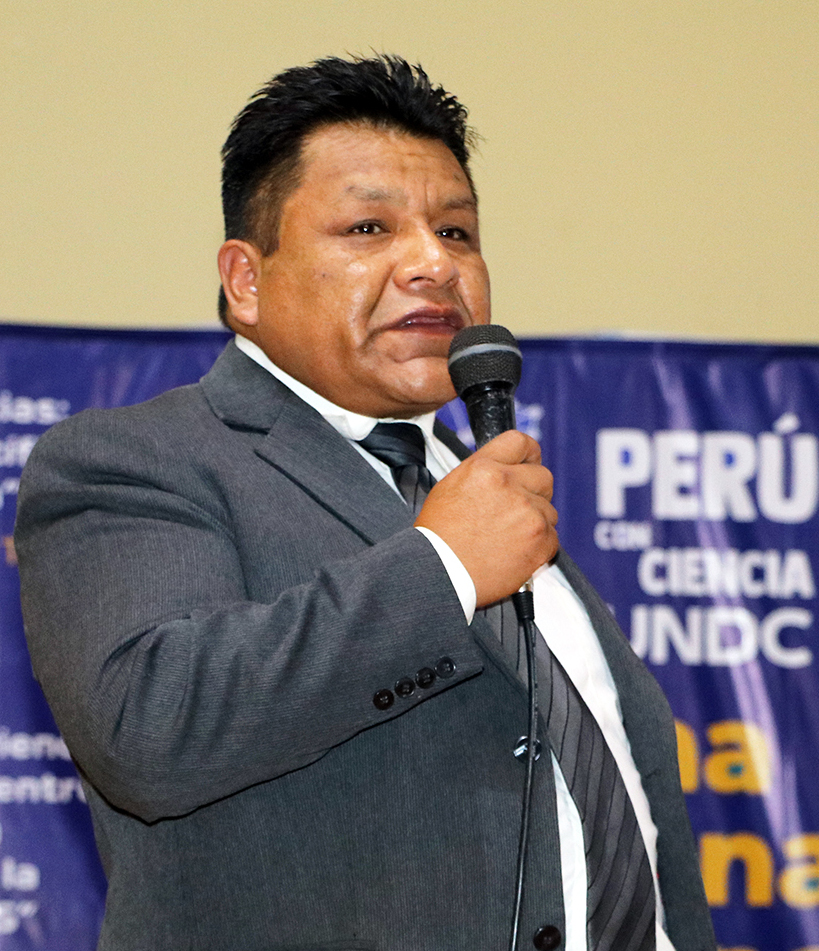
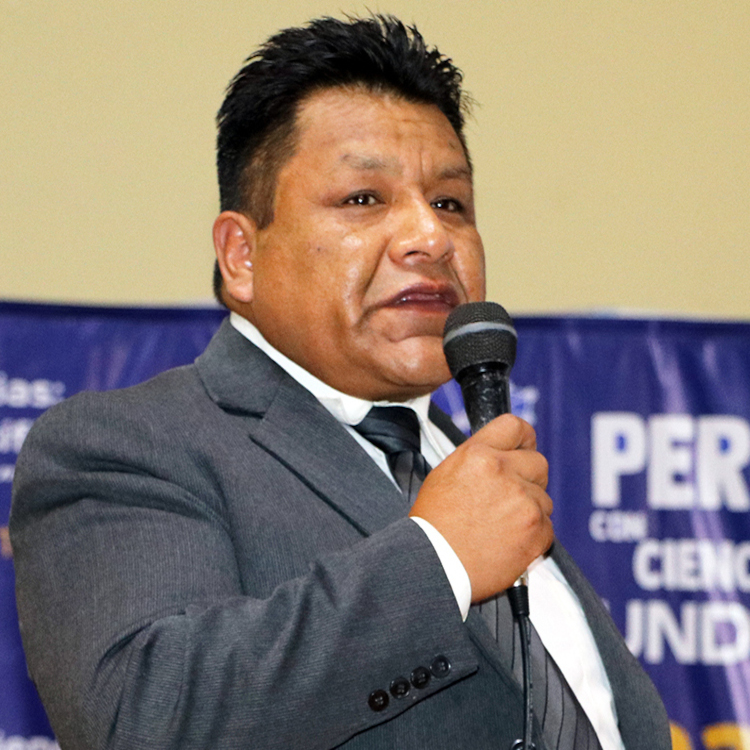
update escuela y jefe departamento

diff --git a/client/src/pages/Escuela.jsx b/client/src/pages/Escuela.jsx
@@ -1,6 +1,14 @@
-import Navbar from '../components/Navbar'
-import Footer from '../shared/Footer'
-import Asto from '../assets/l-asto.png'
+import Navbar from '../components/Navbar';
+import Footer from '../shared/Footer';
+import Asto from '../assets/l-asto.png';
+import Programcion from '../assets/programacion.jpg'
+import { Link } from 'react-router-dom';
+
+import { HiOutlineClipboardDocumentList } from "react-icons/hi2";
+import { MdCheckCircle } from "react-icons/md";
+import { HiDocumentArrowDown } from "react-icons/hi2";
+import { GrDocumentUser } from "react-icons/gr";
+import { FaUserGraduate } from "react-icons/fa6";
 
 // motion
 import { motion } from 'framer-motion';
@@ -47,7 +55,7 @@ const Escuela = () => {
                                 >
                                     <div class="mb-10">
                                         <p class="font-bold text-2xl mb-5">Director (e) de la Escuela Profesional de Ingeniería de Sistemas</p>
-                                        <h1 className="font-bold text-3xl mb-5">Mg. Leonidas Asto Huamán</h1>
+                                        <h1 className="font-bold text-3xl mb-5">M.Sc. Leonidas Asto Huamán</h1>
                                         <p class="text-sm text-justify lg:mr-10">De profesión, Ingeniero Informático y Sistemas con maestría en Informática, candidato a doctor en Ingeniería de Sistemas. Docente, con experiencia
                                             en universidades públicas y privadas. Asesor de tesis. Áreas de investigación: Machine Learning, Redes Neuronales, Interacción Humano Computador, IoT, Sistemas Inteligentes,
                                             Procesamiento Natural y BI. Con capacidad analizar, diseñar, construir, evaluar, diagnosticar, auditar y mantener sistemas informáticos aplicados en las diferentes áreas del
@@ -58,10 +66,192 @@ const Escuela = () => {
                         </div>
                     </div>
                 </div>
+
+                <div class="py-16 bg-white">
+                    <div class="container m-auto px-6 text-gray-600 md:px-12 xl:px-6">
+                        <h2 class="text-gray-900 font-bold text-3xl md:text-4xl mb-4">Perfil del Egresado en Ingeniería de Sistemas</h2>
+                        <div class="space-y-6 md:space-y-0 md:flex md:gap-6 lg:items-center lg:gap-12">
+                            <div class="md:5/12 lg:w-5/12">
+                                <img src={Programcion} alt="image" loading="lazy" width="" height="" />
+                            </div>
+                            <div class="md:7/12 lg:w-6/12">
+                                <p class="mt-6 text-gray-600 text-justify">
+                                    La Escuela Profesional de Ingeniería de Sistemas promueve las competencias específicas basadas en el desarrollo de la persona
+                                    con habilidades, conocimientos y capacidades para un adecuado desenvolvimiento profesional en el campo Ingeniería de sistemas.
+                                </p>
+                                <p class="mt-2 text-gray-600 text-justify">
+                                    El egresado en Ingeniería de Sistemas, bajo un enfoque de competencias, busca fortalecer el vínculo con el sector laboral y 
+                                    potenciar el capital humano en un contexto de constantes cambios. Desarrolla competencias específicas en software, redes de 
+                                    comunicación (LAN y WAN), TIC con estándares internacionales, y soluciones de ciencia de datos e inteligencia artificial, con 
+                                    la investigación como eje central para la innovación y transferencia de conocimiento.
+                                </p>
+                                <p class="mt-2 text-gray-600 text-justify">El egresado en Ingeniería de Sistemas tendrá el potencial para convertirse en un profesional
+                                    Exitoso y contribuir al crecimiento y desarrollo en el sector de la tecnología e informática, son sólidos conocimientos.</p>
+                            </div>
+                        </div>
+                        <div class="my-10 md:flex md:flex-col lg:gap-12">
+                            <h2 class="text-gray-900 font-bold text-3xl md:text-4xl mb-4 md:-mb-5">Objetivos Académicos</h2>
+                            <div>
+                                <ul class="list-disc pl-6 space-y-4 text-gray-600 text-justify">
+                                    <li>Promover y desarrollar labores de investigación científica y tecnológica de carácter multidisciplinario y con la participación de docentes y estudiantes, para mejorar habilidades y generar conocimientos técnicos y científicos, a fin de contribuir con responsabilidad social con el desarrollo del país.</li>
+                                    <li>Promover la participación de los estudiantes de ingeniería de sistemas en actividades extracurriculares, tales como, círculos de estudios y proyectos de investigación interdisciplinaria, que integren los procesos empresariales con las tecnologías de información.</li>
+                                    <li>Integrar a los estudiantes con graduados y empleadores exitosos para que, a través de la Información de sus experiencias, conozcan sobre los éxitos en la profesión de ingeniería de sistemas, con el fin de motivarlos.</li>
+                                    <li>Propiciar la capacitación permanente del personal docente con la finalidad de estar a la vanguardia en los conocimientos de los temas relacionados a la ingeniería de sistemas.</li>
+                                    <li>Atender las necesidades u los cambios que adoptan las organizaciones, en respuesta a las fluctuaciones del mercado, proporcionándoles profesionales calificados que ayuden a alcanzar sus objetivos estratégicos mediante el uso de las tecnologías de la información.</li>
+                                </ul>
+                            </div>
+                        </div>
+                        <div class="my-10 md:flex md:flex-col lg:gap-12">
+                            <h2 class="text-gray-900 font-bold text-3xl md:text-4xl mb-4 md:-mb-5">Conceptual</h2>
+                            <div>
+                                <ul class="list-disc pl-6 space-y-4 text-gray-600 text-justify">
+                                    <li>Conoce e integra conocimientos de las ciencias básicas, ciencias de la computación y ciencias de la empresa para la solución de problemas.</li>
+                                    <li>Distingue y explica las diferentes fases de la solución de un problema.</li>
+                                    <li>Conoce las metodologías del enfoque sistémico y científico, para el desarrollo de propuestas de solución a problemas del mundo real.</li>
+                                </ul>
+                            </div>
+                        </div>
+                        <div class="my-10 md:flex md:flex-col lg:gap-12">
+                            <h2 class="text-gray-900 font-bold text-3xl md:text-4xl mb-4 md:-mb-5">Procedimental</h2>
+                            <div>
+                                <ul class="list-disc pl-6 space-y-4 text-gray-600 text-justify">
+                                    <li>Aplica efectivamente la teoría General de Sistemas y el Pensamiento Sistémico en la compresión y solución de problemas organizacionales.</li>
+                                    <li>Modela, Simula, Implementa y Optimiza Sistemas Complejos, bajo el soporte de las tecnologías de información y Comunicación.</li>
+                                    <li>Planifica, Analiza, Diseña y Desarrolla sistemas de información y comunicación para diversos tipos de organizaciones.</li>
+                                    <li>Modela unidades de negocio en las organizaciones.</li>
+                                    <li>Aplica ingeniería de información integrados.</li>
+                                    <li>Integra la información organizacional.</li>
+                                    <li>Diseña e Implementa redes globales de comunicación de datos.</li>
+                                    <li>Gerencia organizaciones empresariales, desarrollando estrategias para el logro de ventajas competitivas sostenibles.</li>
+                                </ul>
+                            </div>
+                        </div>
+                        <div class="my-10 md:flex md:flex-col lg:gap-12">
+                            <h2 class="text-gray-900 font-bold text-3xl md:text-4xl mb-4 md:-mb-5">Actitudinales</h2>
+                            <div>
+                                <ul class="list-disc pl-6 space-y-4 text-gray-600 text-justify">
+                                    <li>Ser proactivo hacia la investigación y actualización en tecnología de información y comunicaciones.</li>
+                                    <li>Ejerce su labor con creatividad, responsabilidad y ética.</li>
+                                    <li>Orienta su profesión al desarrollo regional y nacional, en base a la compresión de la realidad en sus diversas manifestaciones.</li>
+                                    <li>No tiene temor de promover en su campo una iniciativa con efectos de carácter mundial.</li>
+                                    <li>Promueve la generación de empresas.</li>
+                                    <li>Impulsa la aplicación nuevas tecnologías de información y comunicación en la empresa.</li>
+                                    <li>Promueve los cambios económicos, sociales, científicos y tecnológicos en el marco del desarrollo humano.</li>
+                                </ul>
+                            </div>
+                        </div>
+                        <div className="my-10 md:flex md:flex-col lg:gap-12 text-justify">
+                            <h2 className="text-gray-900 font-bold text-3xl md:text-4xl mb-4 md:-mb-5">Grados y Títulos</h2>
+                            <div>
+                                <ul className="pl-4 space-y-4 text-gray-600">
+                                    <li className="flex items-start">
+                                        <FaUserGraduate className="mr-2 text-2xl inline" />
+                                        <span>Grado Académico: Bachiller en Ingeniería de Sistemas.</span>
+                                    </li>
+                                    <li className="flex items-start">
+                                        <FaUserGraduate className="mr-2 text-2xl inline" />
+                                        <span>Título Profesional: Ingeniero de Sistemas.</span>
+                                    </li>
+                                </ul>
+                            </div>
+                        </div>
+                        {/*Cards */}
+                        <h4 class="text-2xl mt-6 text-gray-900 font-bold inline-flex items-start">
+                            <MdCheckCircle class="mr-2 inline" />
+                            Planes de estudios vigentes
+                        </h4>
+                        <div class="md:min-w-[700px] xl:min-w-[800px] mt-5 grid grid-cols-1 gap-5 md:grid-cols-2 lg:grid-cols-3 2xl:grid-cols-3 justify-center mx-auto">
+                            <div class="relative flex flex-grow !flex-row flex-col items-center rounded-[10px] border-[2px] bg-white shadow-md dark:border-[#00000033]">
+                                <div class="ml-[18px] flex h-[90px] w-auto flex-row items-center">
+                                    <div class="rounded-full bg-lightPrimary p-3 dark:bg-gray-300">
+                                        <span class="flex items-center text-brand-500 text-black text-3xl">
+                                            <HiOutlineClipboardDocumentList />
+                                        </span>
+                                    </div>
+                                </div>
+                                <div class="h-50 ml-4 flex w-auto flex-col justify-center">
+                                    <Link to={"https://drive.google.com/file/d/1ve1jDeKrh475vw2V3dyF3pU9BkzsWcSx/view?usp=sharing"} target='_blank'><h4 class="text-xl font-bold text-navy-700 text-black">Plan de estudios 2024</h4></Link>
+                                </div>
+                            </div>
+                            <div class="relative flex flex-grow !flex-row flex-col items-center rounded-[10px] border-[2px] bg-white shadow-md dark:border-[#00000033]">
+                                <div class="ml-[18px] flex h-[90px] w-auto flex-row items-center">
+                                    <div class="rounded-full bg-lightPrimary p-3 dark:bg-gray-300">
+                                        <span class="flex items-center text-brand-500 text-black text-3xl">
+                                            <HiOutlineClipboardDocumentList />
+                                        </span>
+                                    </div>
+                                </div>
+                                <div class="h-50 ml-4 flex w-auto flex-col justify-center">
+                                    <Link to={"https://drive.google.com/file/d/16v8FIV--vDkHz8Mg6jP-YQvrMduPtHKF/view?usp=sharing"} target='_blank'><h4 class="text-xl font-bold text-navy-700 text-black">Plan de estudios 2016</h4></Link>
+                                </div>
+                            </div>
+                        </div>
+                        <h4 class="text-2xl mt-20 text-gray-900 font-bold inline-flex items-start">
+                            <MdCheckCircle class="mr-2 inline" />
+                            Documentos de Practicas-Preprofesionales
+                        </h4>
+                        <div class="md:min-w-[700px] xl:min-w-[800px] mt-5 grid grid-cols-1 gap-5 md:grid-cols-2 lg:grid-cols-3 2xl:grid-cols-3 justify-center mx-auto">
+                            <div class="relative flex flex-grow !flex-row flex-col items-center rounded-[10px] border-[2px] bg-white shadow-md dark:border-[#00000033]">
+                                <div class="ml-[18px] flex h-[90px] w-auto flex-row items-center">
+                                    <div class="rounded-full bg-lightPrimary p-3 dark:bg-gray-300">
+                                        <span class="flex items-center text-brand-500 text-black text-3xl">
+                                            <GrDocumentUser />
+                                        </span>
+                                    </div>
+                                </div>
+                                <div class="h-50 ml-4 flex w-auto flex-col justify-center">
+                                    <h4 class="text-xl font-bold text-navy-700 text-black">Reglamento de PPP</h4>
+                                </div>
+                            </div>
+                            <div class="relative flex flex-grow !flex-row flex-col items-center rounded-[10px] border-[2px] bg-white shadow-md dark:border-[#00000033]">
+                                <div class="ml-[18px] flex h-[90px] w-auto flex-row items-center">
+                                    <div class="rounded-full bg-lightPrimary p-3 dark:bg-gray-300">
+                                        <span class="flex items-center text-brand-500 text-black text-3xl">
+                                            <HiDocumentArrowDown />
+                                        </span>
+                                    </div>
+                                </div>
+                                <div class="h-50 ml-4 flex w-auto flex-col justify-center">
+                                    <h4 class="text-xl font-bold text-navy-700 text-black">Formatos de PPP</h4>
+                                </div>
+                            </div>
+                        </div>
+                        <h4 class="text-2xl mt-20 text-gray-900 font-bold inline-flex items-start">
+                            <MdCheckCircle class="mr-2 inline" />
+                            Documentos de RSU
+                        </h4>
+                        <div class="md:min-w-[700px] xl:min-w-[800px] mt-5 grid grid-cols-1 gap-5 md:grid-cols-2 lg:grid-cols-3 2xl:grid-cols-3 justify-center mx-auto">
+                            <div class="relative flex flex-grow !flex-row flex-col items-center rounded-[10px] border-[2px] bg-white shadow-md dark:border-[#00000033]">
+                                <div class="ml-[18px] flex h-[90px] w-auto flex-row items-center">
+                                    <div class="rounded-full bg-lightPrimary p-3 dark:bg-gray-300">
+                                        <span class="flex items-center text-brand-500 text-black text-3xl">
+                                            <GrDocumentUser />
+                                        </span>
+                                    </div>
+                                </div>
+                                <div class="h-50 ml-4 flex w-auto flex-col justify-center">
+                                    <h4 class="text-xl font-bold text-navy-700 text-black">Reglamento de RSU</h4>
+                                </div>
+                            </div>
+                            <div class="relative flex flex-grow !flex-row flex-col items-center rounded-[10px] border-[2px] bg-white shadow-md dark:border-[#00000033]">
+                                <div class="ml-[18px] flex h-[90px] w-auto flex-row items-center">
+                                    <div class="rounded-full bg-lightPrimary p-3 dark:bg-gray-300">
+                                        <span class="flex items-center text-brand-500 text-black text-3xl">
+                                            <HiDocumentArrowDown />
+                                        </span>
+                                    </div>
+                                </div>
+                                <div class="h-50 ml-4 flex w-auto flex-col justify-center">
+                                    <h4 class="text-xl font-bold text-navy-700 text-black">Formatos de RSU</h4>
+                                </div>
+                            </div>
+                        </div>
+                    </div>
+                </div>
             </section>
             <Footer />
         </>
     )
 }
 
-export default Escuela
+export default Escuela;

diff --git a/client/src/pages/Departamento.jsx b/client/src/pages/Departamento.jsx
@@ -39,7 +39,7 @@ const Departamento = () => {
                                         whileInView={"show"}
                                         viewport={{ once: true, amount: 0.7 }}
                                     >
-                                        <img src={Roque} class="w-full relative z-10" alt="" />
+                                        <img src={Oseda} class="w-full relative z-10" alt="" />
                                     </motion.div>
                                 </div>
                             </div>
@@ -52,13 +52,19 @@ const Departamento = () => {
                                 >
                                     <div class="mb-10">
                                         <p class="font-bold text-2xl mb-5">Director (e) del Departamento Académico de Ingenieria de Sistemas</p>
-                                        <h1 className="font-bold text-3xl mb-5">Dr. Edwin Roque Tito</h1>
-                                        <p class="text-sm text-justify lg:mr-10">Docente Universitario de Pre y Posgrado, con experiencia en: Proyectos de desarrollo de software, implementación de sistemas de información en
-                                            todas sus etapas, administración de base de datos y sistemas operativos; orientados al logro de objetivos y cumplir metas organizacionales. Formación profesional en
-                                            constante actualización, aprovecho cada momento y espacio del que hacer universitario; Ingeniero de Sistemas de profesión, Magister Scientiae en Informática por
-                                            la Universidad Nacional del Altiplano, Doctor en Ingeniería de Sistemas por la Universidad Nacional Federico Villarreal, Maestría en Integración e Innovación de
-                                            TI en la PUCP y segunda Especialidad en Formulación y Evaluación de Proyectos de Inversión en la UNA; mi objetivo personal es formar parte de un gran equipo de trabajo,
-                                            donde pueda aportar mi experiencia en el área de Ingeniería de sistemas y telecomunicaciones, y continuar con mi desarrollo profesional.</p>
+                                        <h1 className="font-bold text-3xl mb-5">Ph.D. Dulio Oseda Gago</h1>
+                                        <p class="text-sm text-justify lg:mr-10">Docente universitario en la categoría de Principal, con más de 23 años de experiencia 
+                                            en investigación, gestión educacional y acreditación universitaria. Doctor en Ciencias de la Educación, Doctor en Psicología 
+                                            Educacional y Tutorial, Doctor en Educación, Doctor en Administración de la Educación, Doctor en Sistemas de Ingeniería, DBA in 
+                                            Business Administration, Ph.D. in Business Administration and Ph.D. in Scientific Research. Posdoctor en Ciencias de la Educación, 
+                                            Posdoctor en Sistemas Diacrónicos y Sincrónicos de la Investigación Científica, y Posdoctor in Big Data. Experiencia en gestión de 
+                                            proyectos, planificación estratégica, consecución de fondos concursables de cooperación técnica, organización de cursos y eventos 
+                                            científicos y publicación en revistas especializadas nacionales y extranjeras. Experiencia como docente universitario a nivel de 
+                                            pre y posgrado. Ponente en diversos eventos nacionales e internacionales. Ganador en la categoría de "Maestro" de las Palmas 
+                                            Magisteriales del MINEDU, Conferencista internacional de la OIICE. Fluente en italiano, portugués e inglés. Ha sido Vicerrector 
+                                            Académico en la Universidad Nacional Intercultural de la Amazonia de Ucayali y Vicerrector de Investigación en la Universidad Nacional 
+                                            Autónoma de Chota - Cajamarca. Actual docente investigador en la Universidad Nacional Mayor de San Marcos y Universidad Nacional 
+                                            de Cañete.</p>
                                     </div>
                                 </motion.div>
                             </div>
@@ -84,7 +90,7 @@ const Departamento = () => {
                             </div>
                             <div class="text-center py-8 sm:py-6">
                                 <p class="text-xl text-gray-700 font-bold mb-2">Dr. Wagner Vicente Ramos</p>
-                                <p class="text-base text-gray-400 font-normal">Director General (e) de la Escuela de Posgrado de la UNDC</p>
+                                <p class="text-base text-gray-400 font-normal">Responsable de Tutoria Académica de la Facultad de Ingeniería</p>
                             </div>
                         </div>
                     </motion.div>
@@ -94,11 +100,11 @@ const Departamento = () => {
                     >
                         <div class="w-full bg-white rounded-lg shadow-lg overflow-hidden flex flex-col justify-center items-center">
                             <div>
-                                <img class="object-center object-cover h-auto w-full" src={Oseda} alt="photo" />
+                                <img class="object-center object-cover h-auto w-full" src={Roque} alt="photo" />
                             </div>
                             <div class="text-center py-8 sm:py-6">
-                                <p class="text-xl text-gray-700 font-bold mb-2">Ph.D. Dulio Oseda Gago</p>
-                                <p class="text-base text-gray-400 font-normal">Director (e) del Centro de Investigación Científica de la UNDC</p>
+                                <p class="text-xl text-gray-700 font-bold mb-2">Dr. Edwin Roque Tito</p>
+                                <p class="text-base text-gray-400 font-normal">Responsable de Practicas Preprofesionales de la Facultad de Ingeniería</p>
                             </div>
                         </div>
                     </motion.div>

diff --git a/client/src/components/Navbar.jsx b/client/src/components/Navbar.jsx
@@ -65,8 +65,8 @@ const Navbar = () => {
                   {isEscuelaOpen && (
                     <ul className="absolute left-0 pl-4 mt-2 w-40 bg-white shadow-lg rounded-md p-2 border border-zinc-200 flex flex-col gap-2">
                       <li className="border-b border-gray-200 py-1"><Link to={"/escuela"}>Ingeniería de Sistemas</Link></li>
-                      <li className="border-b border-gray-200 py-1"><Link to={"/escuela/tutoria"}>Tutoria</Link></li>
-                      <li className="border-b border-gray-200 py-1"><Link to={"/escuela/rsu"}>RSU</Link></li>
+                      <li className="border-b border-gray-200 py-1"><Link to={"https://tutoria.undc.edu.pe/Login/index.php"} target='_blank'>Tutoria</Link></li>
+                      <li className="border-b border-gray-200 py-1"><Link to={"https://portal.undc.edu.pe/proyeccionsocial/"} target='_blank'>RSU</Link></li>
                     </ul>
                   )}
                 </span>
@@ -119,8 +119,8 @@ const Navbar = () => {
           {isEscuelaOpen && (
             <ul className="absolute left-0 pl-4 mt-2 w-40 bg-secondary shadow-lg rounded-md p-2 border border-zinc-200 flex flex-col gap-2 z-30">
               <li className="border-b border-gray-200 py-1"><Link to={"/escuela"}>Ingeniería de Sistemas</Link></li>
-              <li className="border-b border-gray-200 py-1"><Link to={"/escuela/tutoria"}>Tutoria</Link></li>
-              <li className="border-b border-gray-200 py-1"><Link to={"/escuela/rsu"}>RSU</Link></li>
+              <li className="border-b border-gray-200 py-1"><Link to={"https://tutoria.undc.edu.pe/Login/index.php"} target='_blank'>Tutoria</Link></li>
+              <li className="border-b border-gray-200 py-1"><Link to={"https://portal.undc.edu.pe/proyeccionsocial/"} target='_blank'>RSU</Link></li>
             </ul>
           )}
         </span>

diff --git a/client/src/components/Actualidad.jsx b/client/src/components/Actualidad.jsx
@@ -30,19 +30,18 @@ const Actualidad = () => {
     return (
         <div className="md:px-14 p-4 max-w-screen-2xl mx-auto space-y-10" id='about'>
             <h2 className="md:text-5xl text-3xl font-extrabold">ACTUALIDAD</h2>
-            <div className='flex items-center'>
+            {/*<div className='flex items-center'>
                 <button className="flex px-3 py-2 bg-primary mr-1 text-white font-semibold rounded">
                     <span>Noticias</span>
                 </button>
-
-                {/*<button className="flex px-3 py-2 bg-secondary mr-1 text-white font-semibold rounded">
+                <button className="flex px-3 py-2 bg-secondary mr-1 text-white font-semibold rounded">
                     <span>Eventos</span>
                 </button>
 
                 <button className="flex px-3 py-2 bg-secondary mr-1 text-white font-semibold rounded">
                     <span>Proyectos</span>
-                </button>*/}
-            </div>
+                </button>
+            </div>*/}
             <div className='flex flex-col md:flex-row justify-between items-center gap-8'>
                 <div className="container mx-auto p-4">
                     <div className="grid grid-cols-1 sm:grid-cols-2 md:grid-cols-2 lg:grid-cols-4 xl:grid-cols-4 gap-4">

diff --git a/client/src/components/Aacademica.jsx b/client/src/components/Aacademica.jsx
@@ -65,7 +65,7 @@ const Aacademica = () => {
                             <div className='bg-[rgba(255, 255, 255, 0.04)] rounded-[35px] h-96 shadow-3xl p-8 items-center flex justify-center hover:-translate-y-4 transition-all duration-300 cursor-pointer'>
                                 <div>
                                     <img src={academica4} alt="" className='object-center object-cover h-auto w-full' />
-                                    <h5 className='text-2xl font-semibold px-5 text-center mt-5'>Reencunetro de Egresados</h5>
+                                    <h5 className='text-2xl font-semibold px-5 text-center mt-5'>Reencuentro de Egresados</h5>
                                 </div>
                             </div>
                         </motion.div>

diff --git a/client/src/components/Home.jsx b/client/src/components/Home.jsx
@@ -1,9 +1,9 @@
 import { useState, useEffect } from 'react';
-import banner1 from '../assets/banner1.png';
-import banner2 from '../assets/banner2.png';
-import banner3 from '../assets/banner3.png';
-import banner4 from '../assets/banner4.png';
-import banner5 from '../assets/banner5.png';
+import banner1 from '../assets/banner1.jpg';
+import banner2 from '../assets/banner2.jpg';
+import banner3 from '../assets/banner3.jpg';
+import banner4 from '../assets/banner4.jpg';
+import banner5 from '../assets/banner5.jpg';
 
 import { BsChevronCompactLeft, BsChevronCompactRight } from 'react-icons/bs';
 import { RxDotFilled } from 'react-icons/rx';

diff --git a/client/src/pages/facultad/Facultad.jsx b/client/src/pages/facultad/Facultad.jsx
@@ -2,7 +2,7 @@ import Navbar from '../../components/Navbar';
 import Footer from '../../shared/Footer';
 import Almidon from '../../assets/c-almidon.png';
 
-import banner1 from '../../assets/banner1.png';
+import banner1 from '../../assets/banner1.jpg';
 import Banner from '../../shared/Banner';
 // motion
 import { motion } from 'framer-motion';

diff --git a/client/src/pages/LoginPage.jsx b/client/src/pages/LoginPage.jsx
@@ -3,7 +3,7 @@ import { useAuth } from "../context/AuthContext";
 import { useNavigate } from "react-router-dom";
 import { useEffect } from "react";
 
-import banner2 from '../assets/banner2.png';
+import banner2 from '../assets/banner2.jpg';
 
 const LoginPage = () => {
 

diff --git a/client/src/pages/HomePage.jsx b/client/src/pages/HomePage.jsx
@@ -12,9 +12,9 @@ const HomePage = () => {
     <>
       <Navbar />
       <Home />
+      <Actualidad />
       <Newsletter />
       <Aacademica />
-      <Actualidad />
       <SInformacion />
       <Footer />
     </>
